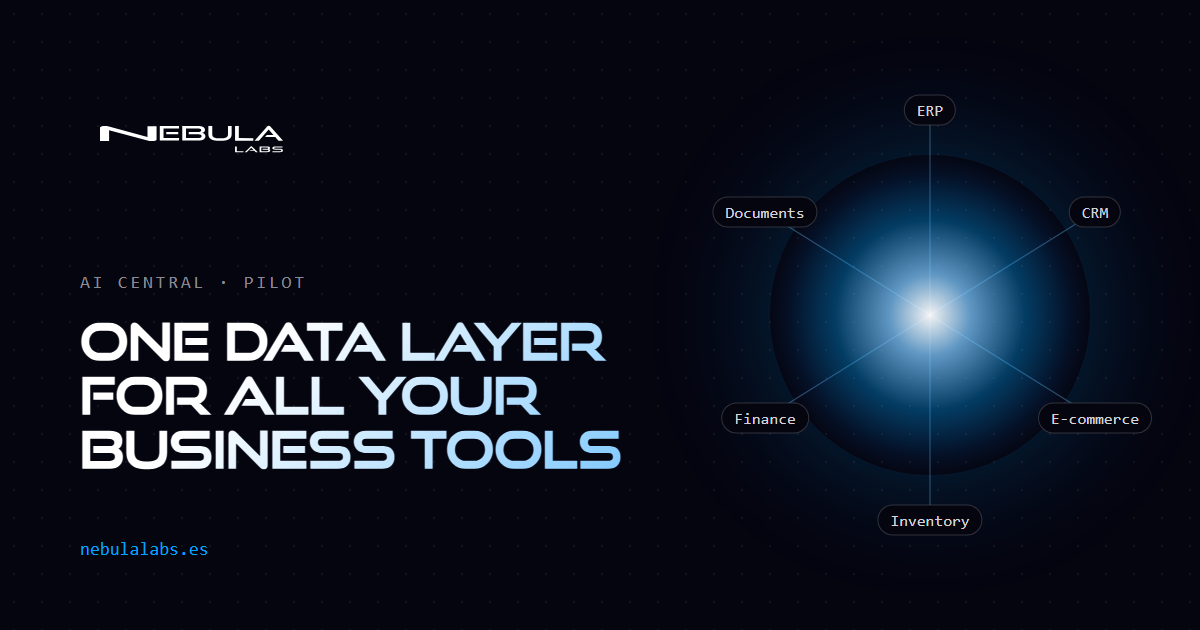
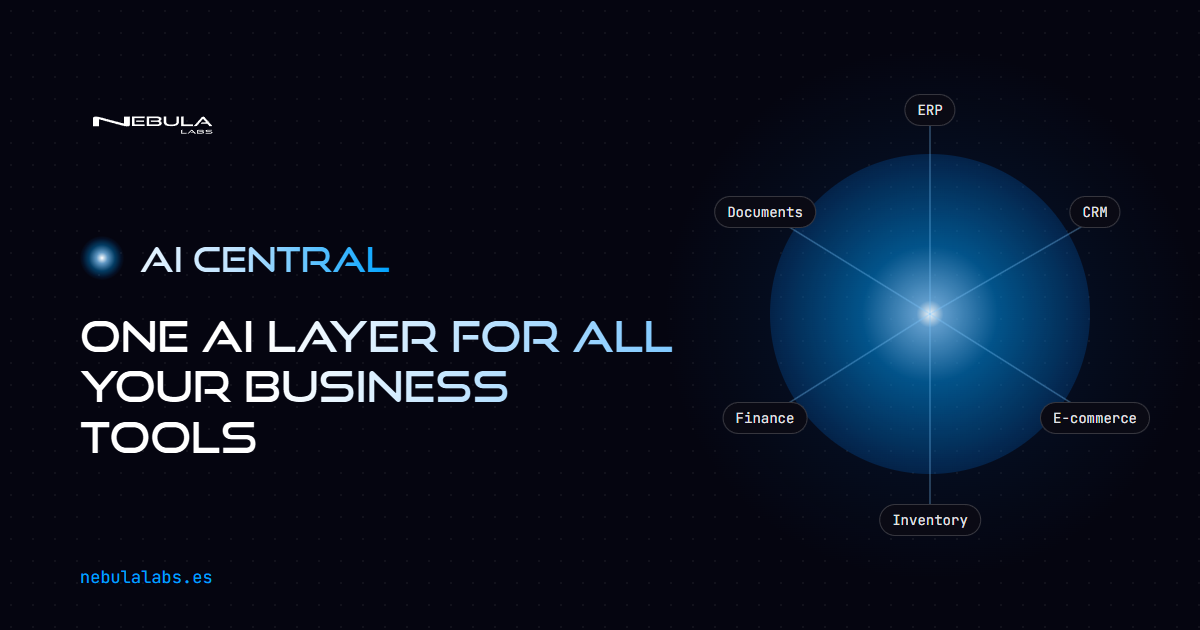
minor changes

diff --git a/nebulalabs/src/i18n/es.ts b/nebulalabs/src/i18n/es.ts
@@ -9,7 +9,7 @@ const es: typeof en = {
         'Software a medida, agentes de IA, automatización integral y CTO externo, con un equipo de matemáticos e ingenieros. Remote-first, global.',
     },
     aiCentral: {
-      title: 'IA Central — Todo tu software en una sola capa de datos',
+      title: 'IA Central — Una capa de inteligencia artificial para todas tus herramientas',
       description:
         'Conecta ERP, CRM, e-commerce e inventario en una capa gobernada. Pregunta, obtén respuestas trazables y decide con los datos de tu empresa.',
     },
@@ -128,7 +128,7 @@ const es: typeof en = {
     badge: 'Productos',
     title: 'Productos que construimos', // PROVISIONAL
     aiCentral: {
-      tagline: 'Todo tu software, una sola capa de datos',
+      tagline: 'Una capa de inteligencia artificial para todas tus herramientas',
       cta: 'Saber más',
     },
     aiDistribution: {
@@ -320,8 +320,8 @@ const es: typeof en = {
     illustrative: 'Ilustrativo',
     hero: {
       badge: 'IA Central · Buscamos empresas piloto',
-      eyebrow: 'IA Central · Piloto',
-      title: 'Todo tu software, una sola capa de datos',
+      eyebrow: 'IA Central',
+      title: 'Una capa de inteligencia artificial para todas tus herramientas',
       subtitle:
         'IA Central conecta tu ERP, CRM, comercio electrónico, inventario y documentos en una capa gobernada para que cada equipo decida con datos fiables y trazables.',
       ctaPrimary: 'Reserva un taller de descubrimiento',
@@ -462,17 +462,6 @@ const es: typeof en = {
       bandText:
         'Se elige con tu CTO según política de datos, latencia, volumen y presupuesto: modelos autoalojados o proveedores gestionados, sin depender de un único modelo.',
       cta: 'Solicita el dossier técnico (bajo NDA)', // PROVISIONAL — pendiente @marketing
-    },
-    phases: {
-      eyebrow: 'Adopción por fases',
-      title: 'Empezar pequeño, medir y crecer',
-      phaseLabel: 'Fase',
-      steps: [
-        { title: 'Descubrimiento', text: 'Objetivos, fuentes, permisos y métricas prioritarias.', deliverable: 'Alcance y criterios de éxito' },
-        { title: 'Piloto de datos', text: 'Calidad de un primer conjunto de fuentes y entidades.', deliverable: 'Primer dashboard trazable' },
-        { title: 'Piloto con IA', text: 'Preguntas reales, permisos y precisión.', deliverable: 'Asistente evaluado en entorno controlado' },
-        { title: 'Extensión', text: 'Nuevas fuentes y recomendaciones.', deliverable: 'Plan de evolución medido' },
-      ],
     },
     faqTitle: 'Preguntas frecuentes',
     faq: {

diff --git a/nebulalabs/src/i18n/en.ts b/nebulalabs/src/i18n/en.ts
@@ -7,7 +7,7 @@ export default {
         'Custom software, AI agents, end-to-end automation and external CTO services, backed by a team of mathematicians and engineers. Remote-first, global.',
     },
     aiCentral: {
-      title: 'AI Central — One data layer for all your business tools',
+      title: 'AI Central — One AI layer for all your business tools',
       description:
         'Connect your ERP, CRM, e-commerce and inventory in one governed layer. Ask questions, get traceable answers and decide with your own data.',
     },
@@ -126,7 +126,7 @@ export default {
     badge: 'Products',
     title: 'Products we build', // PROVISIONAL
     aiCentral: {
-      tagline: 'One data layer for all your business tools',
+      tagline: 'One AI layer for all your business tools',
       cta: 'Learn more',
     },
     aiDistribution: {
@@ -318,8 +318,8 @@ export default {
     illustrative: 'Illustrative',
     hero: {
       badge: 'AI Central · Pilot partners wanted',
-      eyebrow: 'AI Central · Pilot',
-      title: 'One data layer for all your business tools',
+      eyebrow: 'AI Central',
+      title: 'One AI layer for all your business tools',
       subtitle:
         'AI Central connects your ERP, CRM, e-commerce, inventory and documents into one governed layer, so every team decides with reliable, traceable data.',
       ctaPrimary: 'Book a discovery workshop',
@@ -460,17 +460,6 @@ export default {
       bandText:
         'Chosen with your CTO based on data policy, latency, volume and budget: self-hosted models or managed AI providers, never locked into a single model.',
       cta: 'Request the technical brief (under NDA)', // PROVISIONAL — pendiente @marketing
-    },
-    phases: {
-      eyebrow: 'Adoption in phases',
-      title: 'Start small, measure, then grow',
-      phaseLabel: 'Phase',
-      steps: [
-        { title: 'Discovery', text: 'Goals, sources, permissions and priority metrics.', deliverable: 'Scope and success criteria' },
-        { title: 'Data pilot', text: 'Quality of a first set of sources and entities.', deliverable: 'First traceable dashboard' },
-        { title: 'AI pilot', text: 'Real questions, permissions and accuracy.', deliverable: 'Assistant evaluated in a controlled environment' },
-        { title: 'Expansion', text: 'New sources and recommendations.', deliverable: 'Measured evolution plan' },
-      ],
     },
     faqTitle: 'Frequently asked questions',
     faq: {

diff --git a/nebulalabs/src/pages/AiCentralPage.tsx b/nebulalabs/src/pages/AiCentralPage.tsx
@@ -11,7 +11,6 @@ import ProductMock from '../components/landing/ProductMock';
 import HowItWorks from '../components/landing/HowItWorks';
 import Principles from '../components/landing/Principles';
 import TeamTabs from '../components/landing/TeamTabs';
-import PhaseTimeline from '../components/landing/PhaseTimeline';
 import { IllustrativeTag, Nebula } from '../components/landing/parts';
 
 // AI Central / IA Central landing. Pilot phase: no figures, no clients, every mock labelled
@@ -79,7 +78,13 @@ export default function AiCentralPage() {
         <Nebula tone="cyan" position="top" />
         <div className="relative max-w-6xl mx-auto grid lg:grid-cols-[1.05fr_1fr] gap-10 lg:gap-14 items-center">
           <div>
-            <p className="text-[11px] font-mono text-[#8a8a93] tracking-[0.15em] uppercase mb-5">{t('aiCentralPage.hero.eyebrow')}</p>
+            {/* Product name: the first thing read on this page */}
+            <p className="flex items-center gap-3 sm:gap-4 mb-6">
+              <span aria-hidden="true" className="aic-core shrink-0 w-10 h-10 sm:w-12 sm:h-12 rounded-full" />
+              <span className="text-2xl sm:text-3xl lg:text-4xl font-bold tracking-[0.02em] bg-gradient-to-r from-white via-[#bfe3ff] to-[#00a3ff] bg-clip-text text-transparent">
+                {t('aiCentralPage.hero.eyebrow')}
+              </span>
+            </p>
             {FLAGS.showPilotBadge && (
               <p className="inline-flex items-center gap-2 border border-white/[0.08] bg-white/[0.03] rounded-full px-4 py-1.5 mb-6 text-[11px] font-mono text-[#a1a1aa] tracking-[0.1em] uppercase">
                 <span className="w-1.5 h-1.5 rounded-full bg-[#00a3ff]" aria-hidden="true" />
@@ -209,7 +214,6 @@ export default function AiCentralPage() {
         </div>
       </section>
 
-      <PhaseTimeline />
 
       <FAQ id="ai-central-faq" itemsKey="aiCentralPage.faq" keys={AI_CENTRAL_FAQ} titleKey="aiCentralPage.faqTitle" showContactCta={false} />
 

diff --git a/nebulalabs/build/seo-files.ts b/nebulalabs/build/seo-files.ts
@@ -69,10 +69,6 @@ function aiCentralSection(): string[] {
     ...p.cto.areas.map((a) => `- **${a.title}**: ${a.text}`),
     `- **${p.cto.bandTitle}**: ${p.cto.bandText}`,
     '',
-    `### ${p.phases.title}`,
-    '',
-    ...p.phases.steps.map((s, i) => `${i + 1}. **${s.title}**: ${s.text} → ${s.deliverable}`),
-    '',
     `### ${p.faqTitle}`,
     '',
     ...AI_CENTRAL_FAQ.flatMap((key) => [`#### ${p.faq[key].q}`, '', p.faq[key].a, '']),
